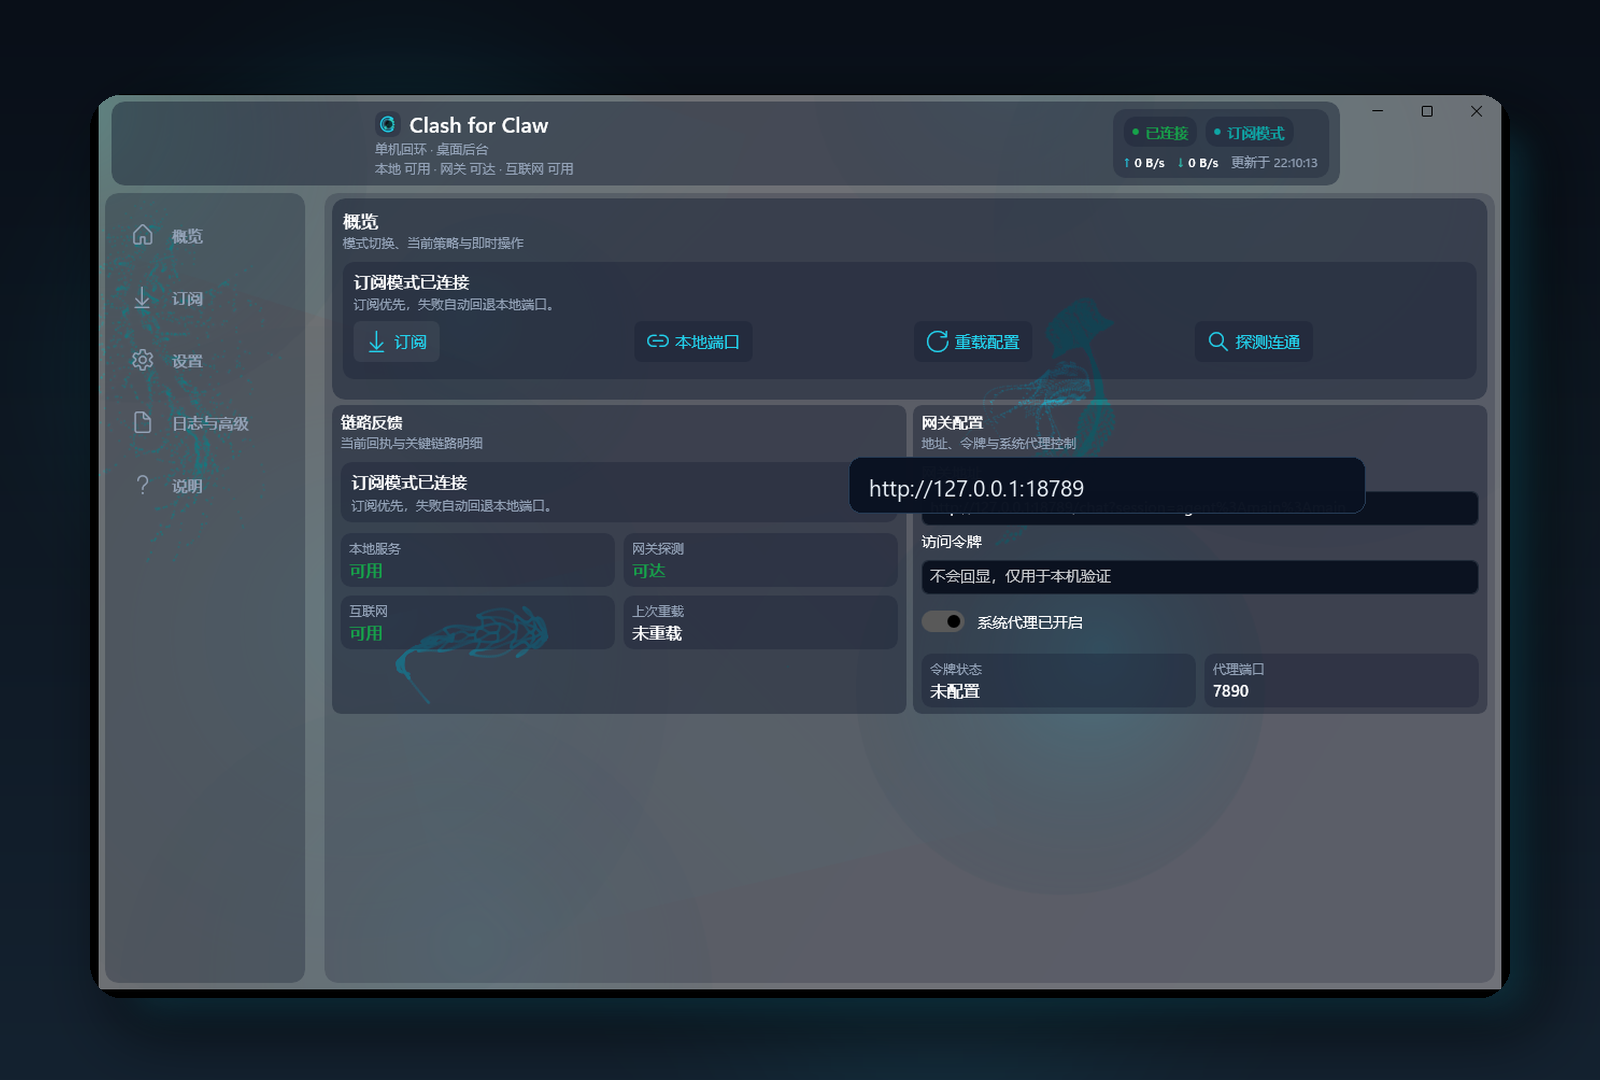
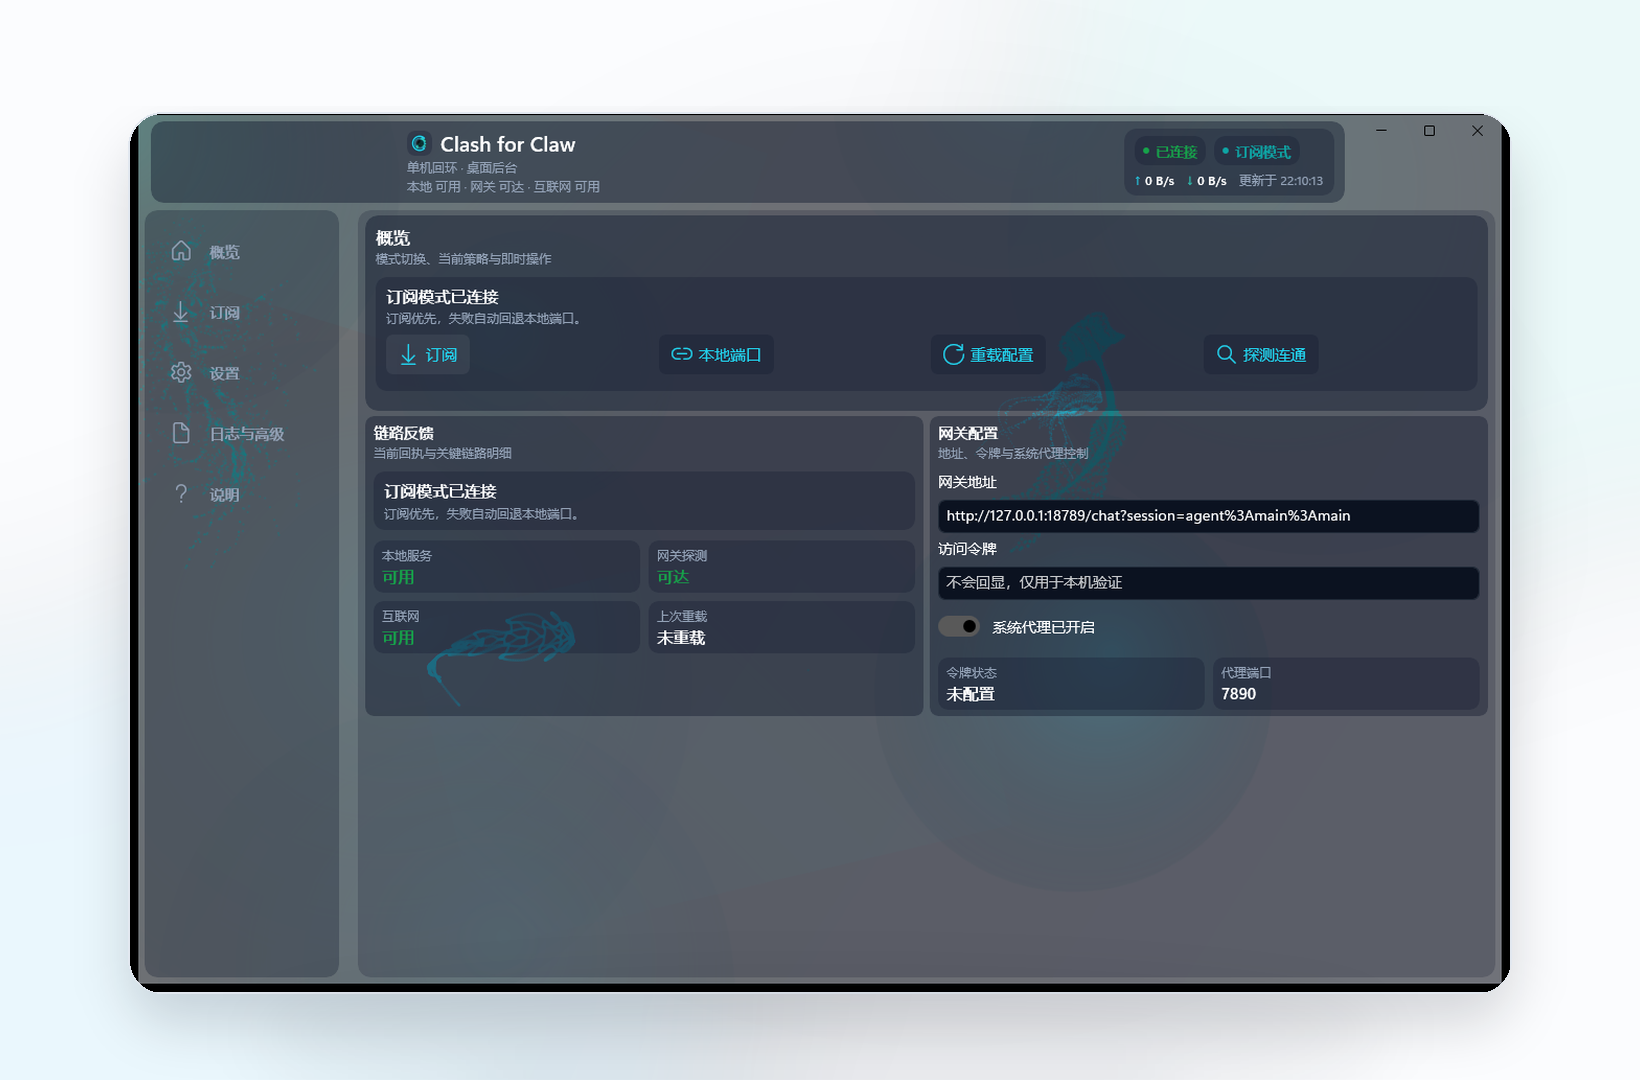
Docs: simplify README presentation

diff --git a/README.md b/README.md
@@ -1,20 +1,20 @@
-# Clash for Claw
+# Clash for Claw
 
 <div align="center">
   <img src="Assets/ClashForClaw-icon-preview.png" alt="Clash for Claw icon" width="88" />
 
   <p><strong>面向 OpenClaw / Claw 链路的本地桌面控制端。</strong></p>
-  <p><strong>更聚焦、更紧凑、更安静，只处理真正和本机代理入口有关的事情。</strong></p>
+  <p>把代理入口、后台驻留和可视化配置收拢到一个更安静、更容易长期使用的 Windows 工具里。</p>
 
   <p>
     <a href="https://github.com/KeyanHu-git/Clash-for-Claw/stargazers">
-      <img src="https://img.shields.io/github/stars/KeyanHu-git/Clash-for-Claw?style=for-the-badge&label=Stars" alt="GitHub stars" />
+      <img src="https://img.shields.io/github/stars/KeyanHu-git/Clash-for-Claw?style=flat-square&label=Stars" alt="GitHub stars" />
     </a>
     <a href="https://github.com/KeyanHu-git/Clash-for-Claw/releases">
-      <img src="https://img.shields.io/github/v/release/KeyanHu-git/Clash-for-Claw?style=for-the-badge&label=Release" alt="GitHub release" />
+      <img src="https://img.shields.io/github/v/release/KeyanHu-git/Clash-for-Claw?style=flat-square&label=Release" alt="GitHub release" />
     </a>
-    <img src="https://visitor-badge.laobi.icu/badge?page_id=KeyanHu-git.Clash-for-Claw&left_text=Visitors&left_color=0f172a&right_color=14b8a6&style=for-the-badge" alt="Visitors" />
-    <img src="https://img.shields.io/github/license/KeyanHu-git/Clash-for-Claw?style=for-the-badge&label=License" alt="License" />
+    <img src="https://visitor-badge.laobi.icu/badge?page_id=KeyanHu-git.Clash-for-Claw&left_text=Visitors&left_color=0f172a&right_color=14b8a6&style=flat-square" alt="Visitors" />
+    <img src="https://img.shields.io/github/license/KeyanHu-git/Clash-for-Claw?style=flat-square&label=License" alt="License" />
   </p>
 </div>
 
@@ -22,235 +22,59 @@
   <img src="docs/readme-hero.png" alt="Clash for Claw overview" width="920" />
 </p>
 
-## 项目缘起
+## 为什么做这个项目
 
-这个项目并不是从“我要做一个桌面代理软件”开始的，而是从一个很具体的问题开始的。
+我是在 Windows 环境里通过 Docker 使用 Claw。实际跑下来发现，只要宿主机没有开启全局代理，Claw 的出网链路就不够稳定，很多能力部署好了也不容易真正用顺手。
 
-笔者是在 **Windows 环境** 里，通过 **Docker 镜像** 安装和运行 Claw。实际使用时发现：
+`Clash for Claw` 就是为这个问题写的。它的核心目标不是做一个花哨的前端，而是给 Claw 提供一条可长期驻留的本地代理链路：前台可视化配置，后台静默运行，真正需要时还可以注册成 Windows 服务。桌面界面之所以存在，是为了让不熟悉命令行、服务管理和代理配置的朋友也能安心使用。
 
-- 如果不开宿主机的全局 VPN 模式
-- Claw 本身就很难稳定出网
-- 于是很多能力虽然已经部署好了，但实际并不能顺畅使用
+## 核心亮点
 
-因此，这个项目最初首先解决的是一个非常现实的问题：
+- 围绕 OpenClaw / Claw 的实际链路设计，不做无关的大而全面板
+- 支持订阅模式与本地端口模式，关键状态集中可见
+- 支持后台驻留、开机自启、静默启动和服务模式
+- 中文界面、敏感值不回显、配置与日志本地持久化
+- 配合 `OpenClaw-Adapter.exe` 使用，适合在个人 Windows 环境长期运行
 
-- 让 Claw 在 Windows + Docker 的实际环境里，能够稳定、自动、长期地联网
+## 快速开始
 
-也正因为这个出发点，`Clash for Claw` 的核心从来都不是“做一个前端界面”，而是：
+### 方式一：下载发布版本
 
-- 为 Claw 准备一条可靠的本地代理链路
-- 让这条链路可以被注册为 Windows 后台服务
-- 让 Claw 在前台界面关闭、托盘图标不显示的情况下，依然能够自动联网
+1. 打开 [Releases](https://github.com/KeyanHu-git/Clash-for-Claw/releases) 下载最新版本。
+2. 准备可运行的 `OpenClaw-Adapter.exe`。
+3. 启动 `Clash for Claw`，填写网关地址与令牌。
+4. 在“订阅”页添加订阅，或切换到本地端口模式。
+5. 验证联网正常后，再按需开启开机自启、静默启动或服务模式。
 
-前端界面其实是后面才补上的。
+### 方式二：从源码构建
 
-之所以补这个前端，不是因为后台能力离不开它，而是因为很多朋友并不熟悉命令行、服务管理和本地代理配置。对于这些用户来说，一个可视化、中文化、状态清楚、能看见配置结果的界面，会明显更安心，也更容易真正用起来。
-
-## 项目定位
-
-`Clash for Claw` 不是一个泛代理配置面板，而是一套专门围绕 `OpenClaw / Claw + Adapter` 链路设计的本地桌面控制端。
-
-它更强调下面几件事：
-
-- 只关心本机回环链路
-- 只暴露真正有用的状态、切换与配置
-- 尽量少按钮、少打扰、少层级
-- 前台负责可视化，后台负责稳定驻留
-- 保持中文友好与日常可维护性
-
-换句话说，它的目标不是“什么都做”，而是把和 Claw 最相关的这一条链路，做得足够顺手、足够稳定、足够像一个产品。
-
-## 亮点
-
-### 1. 为 Claw 使用场景而设计
-
-这个项目从一开始就不是通用桌面代理壳，而是直接围绕下面这条工作流来组织：
-
-- OpenClaw / Claw 需要一个明确的本地代理入口
-- Adapter 需要一个清楚、稳定、可观察的前台
-- 用户需要尽量少的概念切换
-
-所以它把重点放在：
-
-- 订阅与本地端口两种核心模式
-- 回环、网关、互联网三段状态观察
-- 后台驻留与无感运行
-- 最少但够用的可视化配置
-
-### 2. 默认不打扰用户
-
-项目遵循的是“配置在前台，运行在后台”的思路：
-
-- 可使用桌面后台模式
-- 可最小化到托盘
-- 可开机自启
-- 可静默启动
-- 可切换到服务模式
-- 服务失败时可降级到计划任务
-
-### 3. 只把关键状态讲清楚
-
-界面不是做成“大而全的控制台”，而是集中在几个真正重要的信息上：
-
-- 当前模式
-- 当前连通状态
-- 网关是否可达
-- 互联网是否正常
-- 订阅是否可用
-- 当前流量速率与更新时间
-
-### 4. 更适合长期放在自己电脑上用
-
-它的目标不是一次性演示，而是作为本机长期存在的一部分：
-
-- 设置持久化
-- 敏感值不回显
-- 本地日志落盘
-- 后端可按需自动拉起
-- UI 和后台职责分离
-
-## 当前已实现能力
-
-- WinUI 3 中文桌面界面
-- 概览 / 订阅 / 设置 / 日志与高级 / 说明 五个主页面
-- 网关地址与令牌配置
-- URL 中 token 自动解析但不回显
-- 订阅模式与本地端口模式切换
-- 订阅缺失时自动回退本地端口
-- 本地服务、网关、互联网状态探测
-- 订阅列表、单条刷新、全量刷新、导入、本地删除等基础交互
-- 上下行速率与更新时间显示
-- 设置持久化到本机配置文件
-- 托盘、开机自启、静默启动、关闭最小化到托盘
-- 调起 `OpenClaw-Adapter.exe --daemon`
-- 服务模式启停与计划任务降级逻辑
-- 程序化动态背景与数学水母背景
-
-## 适合谁
-
-- 正在使用 OpenClaw / Claw，希望把代理入口收拢到本地桌面端的人
-- 希望代理控制界面尽量简单、稳定、长期可用的人
-- 不想在日常使用里看到大量无关配置项的人
-
-## 如何用到自己的电脑上
-
-### 你需要准备什么
-
-当前仓库主要提供 **WinUI 前端**。
-
-真正负责本地 API、订阅处理、Mihomo 子进程、后台模式的，是配套的：
-
-- `OpenClaw-Adapter.exe`
-
-也就是说：
-
-- 本仓库负责桌面界面
-- `OpenClaw-Adapter.exe` 负责后台能力
-
-### 方式一：从源码运行
-
-#### 1. 准备环境
+环境要求：
 
 - Windows 10 2004+ 或 Windows 11
 - .NET 10 SDK
 - WinUI 3 / Windows App SDK 开发环境
-- 一份可运行的 `OpenClaw-Adapter.exe`
-
-#### 2. 克隆仓库
 
 ```powershell
 git clone https://github.com/KeyanHu-git/Clash-for-Claw.git
 cd Clash-for-Claw
-```
-
-#### 3. 准备后端
-
-把 `OpenClaw-Adapter.exe` 放到以下任一位置：
-
-- 与本项目生成后的 `OpenClawAdapter.exe` 同目录
-- 在“设置”页里手动指定 CLI 路径
-
-#### 4. 构建
-
-```powershell
 dotnet build OpenClawAdapter.csproj -p:Platform=x64
 ```
 
-#### 5. 启动
+## 发布
 
-```powershell
-.\bin\x64\Debug\net10.0-windows10.0.19041.0\win-x64\OpenClawAdapter.exe
-```
+- 当前公开版本：[v0.1.0](https://github.com/KeyanHu-git/Clash-for-Claw/releases/tag/v0.1.0)
 
-### 首次配置建议
+## 协议
 
-1. 在“概览”页确认后台已经启动
-2. 填写网关地址与令牌
-3. 去“订阅”页添加订阅 URL
-4. 先把订阅模式跑通
-5. 确认稳定后再启用开机自启、静默启动或服务模式
-
-## 本地文件位置
-
-- 界面设置：`%AppData%\OpenClawAdapter\settings.json`
-- 服务模式数据目录：`%ProgramData%\OpenClawAdapter`
-- 服务模式日志：`%ProgramData%\OpenClawAdapter\logs\adapter.log`
-
-## 首个公开版本
-
-当前仓库已开始使用独立版本号发布。
-
-首个公开预览版本为：
-
-- `v0.1.0`
-
-你可以在这里查看后续发布：
-
-- https://github.com/KeyanHu-git/Clash-for-Claw/releases
-
-## 开源协议
-
-本项目当前采用 **MIT License**。
-
-这意味着你可以：
-
-- 个人使用
-- 商业使用
-- 修改与再分发
-
-你需要保留：
-
-- 原始版权声明
-- 许可证文本
-
-如果后续你希望改成更严格或更明确的协议，我可以继续替你调整。
-
-## 安全提醒
-
-- 不要把真实订阅 URL、真实 token、真实网关令牌提交到仓库
-- README、截图、示例配置只应使用占位符
-- 即使界面支持从 URL 自动提取 token，也不代表这些 URL 适合进入 Git 历史
-
-## 如果这个项目对你有帮助
-
-欢迎给仓库点一个 Star：
-
-- https://github.com/KeyanHu-git/Clash-for-Claw
-
-这会直接帮助这个项目继续往下做：
-
-- 更稳定的服务模式
-- 更成熟的发布与分发
-- 更完整的订阅体验
-- 更统一的品牌、图标与视觉细节
+本项目采用 [MIT License](LICENSE)。
 
 ## 致谢
 
-### 数学水母动态背景
+- 数学生命背景动效参考：Shelter / MrIShelter，《一起赛博摸鱼呀——数学公式下的生命构型与动态》  
+  来源：[和鲸社区](https://www.heywhale.com/mw/project/687e3f38c678037e34ebf61e)
 
-本项目背景灵感与可视化参考来源于和鲸社区转载内容，使用时应标注来源：
+## 支持一下
 
-- 作者：Shelter / MrIShelter
-- 标题：一起赛博摸鱼呀——数学公式下的生命构型与动态
-- 时间：2025/08/04
-- 来源：https://www.heywhale.com/mw/project/687e3f38c678037e34ebf61e
+如果这个项目对你有帮助，欢迎给仓库点一个 Star：
+
+- https://github.com/KeyanHu-git/Clash-for-Claw
